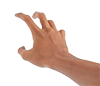
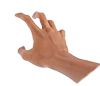
pushing new hand

Changed region(s): [[0.75, 0.7442, 1.0, 1.0]]

diff --git a/css/main.css b/css/main.css
@@ -54,7 +54,7 @@ table {
   border-spacing: 0; }
 
 html {
-  font-size: 16px; }
+  font-size: 15px; }
 
 /*================
    SPINNER
@@ -89,8 +89,8 @@ html {
     bottom: 0;
     left: 0;
     right: 0;
-    cursor: url(hand-1.png), grab;
-    cursor: url(hand-1.png), -webkit-grab;
+    cursor: url(hand.png), grabbing;
+    cursor: url(hand.png), -webkit-grabbing;
     opacity: 0;
     transition: opacity 1.25s ease; }
     #site #album_container:active {
@@ -115,7 +115,7 @@ html {
     z-index: 100; }
   #site #banner {
     position: fixed;
-    bottom: 3rem;
+    bottom: 2rem;
     left: 2rem;
     width: 300px;
     height: 40px; }
@@ -254,7 +254,8 @@ html {
     max-width: calc(100% - 4rem);
     bottom: 3.5rem;
     border: 1px solid #000;
-    line-height: 1.3em; }
+    line-height: 1.3em;
+    height: auto; }
   #site #banner .line {
     display: none; }
   #site #birthday {

diff --git a/index.html b/index.html
@@ -63,8 +63,6 @@
       </h3>
       <div id="gradient"></div>
     </div>
-      
-    <div id="birthday">(My birthday's Feb. 25th)</div>
 
 
     <h2 id="site_credits">
